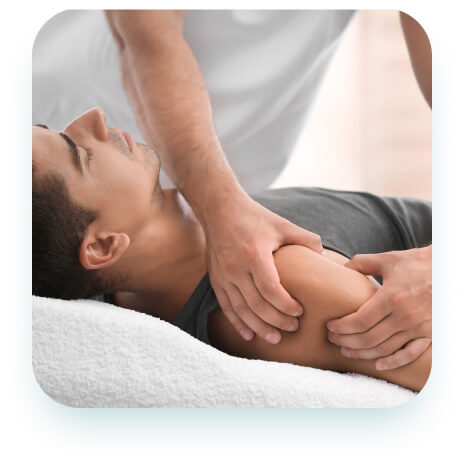
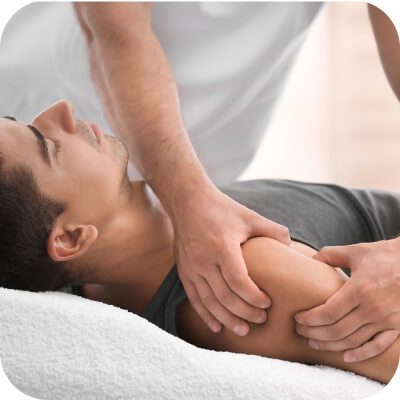
fixed some styles

diff --git a/css/styles.css b/css/styles.css
@@ -130,6 +130,8 @@ body {
 }
 .hero-content {
     width: 500px;
+    padding-top: 120px;
+    padding-bottom: 120px;
 }
 .hero-heading {
     font-weight: 700;
@@ -146,6 +148,7 @@ body {
     color: #ffffff;
 }
 .hero-img {
+    align-self: flex-end;
     width: 423px;
     height: 504px;
 }
@@ -156,6 +159,7 @@ body {
     padding: 120px  112px;
 }
 .services-heading {
+    color: #000;
     font-size: 36px;
     line-height: 120%;
     margin-top: 0;
@@ -180,6 +184,7 @@ body {
     height: 200px;
     margin-right: 64px;
     border-radius: 24px;
+    box-shadow: 0px 12px 24px -8px rgba(0, 107, 116, 0.3);
     object-fit: cover;
 }
 .services-info-wrapper {

diff --git a/index.html b/index.html
@@ -86,8 +86,8 @@
         <!-- CALL CENTER -->
         <section class="call-center" id="call">
             <h2 class="call-center-heading">Qabulga ro’yxatdan o’ting</h2>
-            <a class="call-center-link" href="#">Qo’ng’iroq qilish</a>
-            <a class="call-center-link" href="#">Telegramdan yozish</a>
+            <a class="call-center-link" href="tel:+79180079945">Qo’ng’iroq qilish</a>
+            <a class="call-center-link" href="https://t.me/mohamedxamid" target="_blank">Telegramdan yozish</a>
         </section>
     </main>
     <!-- FOOTER -->
